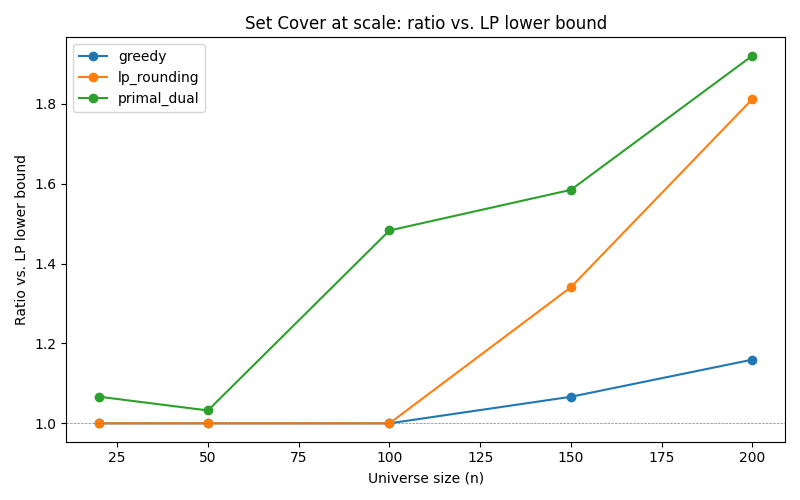
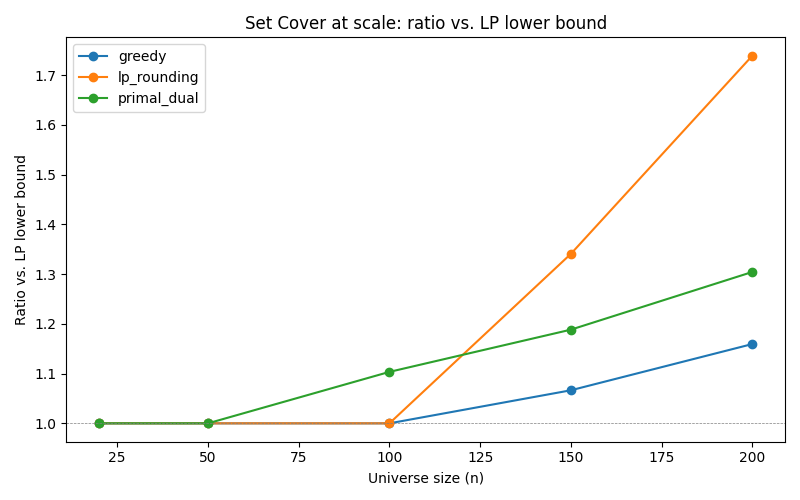
Regenerate all experiment plots with corrected primal-dual algorithm

diff --git a/set_cover_experiments.py b/set_cover_experiments.py
@@ -9,7 +9,7 @@ from set_cover_instances import random_set_cover_instance
 from set_cover_exact import exact_set_cover
 from set_cover_heuristics import greedy_set_cover
 from set_cover_lp import lp_relaxation_set_cover, round_lp_set_cover
-from set_cover_primal_dual import primal_dual_set_cover
+from primal_dual_fixed import primal_dual_set_cover_fixed as primal_dual_set_cover
 
 
 def run_all_methods(universe, subsets):

diff --git a/experiments_large.py b/experiments_large.py
@@ -10,7 +10,7 @@ import matplotlib.pyplot as plt
 from graphs import random_graph, bipartite_graph, complete_graph
 from heuristics import greedy_vertex_cover, matching_vertex_cover
 from lp_rounding import lp_relaxation_vertex_cover, round_lp_solution
-from primal_dual import primal_dual_vertex_cover
+from primal_dual_fixed import primal_dual_vertex_cover_fixed as primal_dual_vertex_cover
 
 
 def run_large_methods(G):

diff --git a/set_cover_large.py b/set_cover_large.py
@@ -8,7 +8,7 @@ import matplotlib.pyplot as plt
 from set_cover_instances import random_set_cover_instance
 from set_cover_heuristics import greedy_set_cover
 from set_cover_lp import lp_relaxation_set_cover, round_lp_set_cover
-from set_cover_primal_dual import primal_dual_set_cover
+from primal_dual_fixed import primal_dual_set_cover_fixed as primal_dual_set_cover
 
 
 def run_large_methods(universe, subsets):

diff --git a/set_cover_large_fixed.py b/set_cover_large_fixed.py
@@ -9,7 +9,7 @@ import matplotlib.pyplot as plt
 from set_cover_instances import random_set_cover_instance
 from set_cover_heuristics import greedy_set_cover
 from set_cover_lp import lp_relaxation_set_cover, round_lp_set_cover
-from set_cover_primal_dual import primal_dual_set_cover
+from primal_dual_fixed import primal_dual_set_cover_fixed as primal_dual_set_cover
 
 
 def run_large_methods(universe, subsets):
